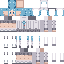
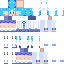
Refresh showcase skin with saturated blue hair and bright cool-white palette (#4)
* Vibrant sky-blue hair, pure white uniform, cool lavender shadows and deliberate skirt pleats

* Test vivid sample hair, bright white cloth and crimson accent in both arm models

* Regenerate real 64x64 showcase PNG from vibrant palette and detailed UV sample

diff --git a/src/sampleSkin.ts b/src/sampleSkin.ts
@@ -1,22 +1,27 @@
 import type {Region} from './skin';
 
-// Original hand-painted blue-haired explorer, inspired by the user's quality reference.
-// The goggles, fringe, coat, cuffs and boots use Minecraft's real outer UV layer.
+// Vibrant blue-haired showcase character, hand-painted on the actual 64×64 Minecraft UV atlas.
+// The crisp white headband, hair wisps, jacket seams, cuffs and boots use the real outer UV layer.
 const palette:Record<string,string>={
-  // Cool, desaturated ice-blue hair; a silver hood; coherent warm skin.
-  H:'#77b2cf',h:'#357ea9',j:'#c2e0ed',K:'#2a6289',
-  a:'#efcebf',b:'#ffe2d2',d:'#c59f93',p:'#e7b0ae',m:'#a1787c',
-  E:'#263f5b',e:'#4083bc',w:'#a1d2e6',W:'#edf4f4',
-  S:'#e5e1e8',s:'#bcb7c3',D:'#8d8998',F:'#666675',
-  L:'#91b7cd',l:'#d4e7ee',R:'#568eae',r:'#a7d5e2',T:'#8ca2b4',G:'#c94e52',
-  Q:'#918d99',q:'#696774',P:'#e5dce2',O:'#aab0bb',o:'#e6e5e8',X:'#60616c'
+  // Clear sky-blue hair with saturated cobalt shadows and luminous icy highlights.
+  H:'#45C7FA',h:'#168EDC',j:'#B7F0FF',K:'#176DB7',
+  // Warm peach skin; soft, lively blush keeps the face from turning grey.
+  a:'#F8D5C5',b:'#FFE9DC',d:'#D9A69B',p:'#FFA5B8',m:'#B5768D',
+  // Deep sapphire eyes with bright cyan reflections.
+  E:'#214477',e:'#2195DC',w:'#B8F4FF',W:'#FFFFFF',
+  // Brilliant cool white cloth, lilac-blue shadows rather than grey.
+  S:'#F9FCFF',s:'#D4DDFA',D:'#96A8DF',F:'#4F66A8',
+  // Sparkling cyan piping, azure ribbon, blue-white highlight, vivid red brooch.
+  L:'#69D9FF',l:'#D6FAFF',R:'#2489E3',r:'#94E8FF',T:'#78ABD9',G:'#FF3F60',
+  // Indigo-lavender skirt pleats and white boots with saturated blue shadows.
+  Q:'#7C86BD',q:'#4B5794',P:'#F5F9FF',O:'#9BB5EC',o:'#E4F1FF',X:'#596C9F'
 };
 const rgba=Object.fromEntries(Object.entries(palette).map(([symbol,hex])=>[symbol,[...hex.match(/\w\w/g)!.map(n=>parseInt(n,16)),255]])) as Record<string,number[]>;
 type FaceMap=Partial<Record<Region['face'],string[]>>;
 const head:FaceMap={
   front:[
-    'HhHHHHhH','HjHHjHjH','HHHbbHHH','HbaaaabH',
-    'HWEaaEWH','HweaaewH','HpbaabpH','HaaamaaH'
+    'HjHHHHjH','HjHHjHjH','HHHbbHHH','HbaaaabH',
+    'HWEaaEWH','HweaaewH','HpbaabpH','HaabmaaH'
   ],
   back:[
     'HHHHHHHH','HjHHhHjH','HHHHHHHH','HhHHHHhH',
@@ -50,7 +55,7 @@ const headOuter:FaceMap={
     'H......H','H......H','H......H','HH....HH'
   ],
   right:[
-    'FFFFFFFF','F......F','F......F','H......H',
+    'sSSSSSSs','SS....SS','S......S','H......H',
     'H......H','H......H','H......H','HH....HH'
   ],
   top:[
@@ -60,14 +65,14 @@ const headOuter:FaceMap={
 };
 const body:FaceMap={
   front:[
-    'SSSssSSS','SsSRRSsS','SsRrrRsS','SsSRRSsS',
-    'SsSTTSsS','SsSTGSsS','SsSTTSsS','SsSTTSsS',
-    'SsSDDSsS','QQQQQQQQ','QqQqQqQq','qQQqQQQq'
+    'SSSSSSSS','SsSRRSsS','SsRrrRsS','SsSRRSsS',
+    'SsSTTSsS','SsSGGSsS','SsSTTSsS','SsSTTSsS',
+    'SsSDDSsS','QQQQQQQQ','QqQQQqQQ','qQQqqQQq'
   ],
   back:[
-    'SSSssSSS','SsSSSSsS','SsSssSsS','SsSSSSsS',
+    'SSSSSSSS','SsSSSSsS','SsSssSsS','SsSSSSsS',
     'SsSSSSsS','SsSSSSsS','SsSSSSsS','SsSSSSsS',
-    'SsSDDSsS','QQQQQQQQ','QqQqQqQq','qQQqQQQq'
+    'SsSDDSsS','QQQQQQQQ','QqQQQqQQ','qQQqqQQq'
   ],
   left:['SSSS','SsSs','SsSs','SsSs','SsSs','SsSs','SsSs','SsSs','SDDS','QQQQ','QqQq','qQQq'],
   right:['SSSS','sSsS','sSsS','sSsS','sSsS','sSsS','sSsS','sSsS','SDDS','QQQQ','qQqQ','qQQq'],
@@ -88,16 +93,16 @@ const bodyOuter:FaceMap={
   left:['H..H','H..H','H..H','H..H','s..s','s..s','S..S','S..S','S..S','Q..Q','q..q','q..q'],
   right:['H..H','H..H','H..H','H..H','s..s','s..s','S..S','S..S','S..S','Q..Q','q..q','q..q']
 };
-const legFront=['QQQQ','QqQq','qQQq','baab','aaaa','aaaa','daaa','aaaa','PPPP','PssP','OooO','XXXX'];
-const legBack=['QQQQ','qQQq','qQQq','dddd','aaaa','aaaa','daaa','aaaa','PPPP','PssP','OOOO','XXXX'];
-const legSide=['QQQQ','qQQq','qQQq','daaa','aaaa','aaaa','daaa','aaaa','PPPP','PssP','OooO','XXXX'];
+const legFront=['QQQQ','QqQQ','qQQq','baab','aaaa','aaaa','daaa','aaaa','PPPP','PssP','OooO','XXXX'];
+const legBack=['QQQQ','QqQQ','qQQq','dddd','aaaa','aaaa','daaa','aaaa','PPPP','PssP','OOOO','XXXX'];
+const legSide=['QQQQ','QqQQ','qQQq','daaa','aaaa','aaaa','daaa','aaaa','PPPP','PssP','OooO','XXXX'];
 const legOuter=['Q..Q','Q..Q','q..q','....','....','....','....','....','O..O','O..O','o..o','XXXX'];
 function armFace(width:number,front:boolean):string[]{
   const white=front?(width===3?'sSS':'sSSs'):(width===3?'SsS':'SssS');
-  const band=width===3?'DSS':'DSsD';
+  const band=width===3?'rSS':'rSSr';
   const cuff=width===3?'FDD':'FDDF';
   const hand=width===3?'daa':'daaa';
-  return [white,band,white,white,band,white,white,white,cuff,cuff,hand,'d'.repeat(width)];
+  return [white,band,white,white,white,white,white,white,cuff,cuff,hand,'d'.repeat(width)];
 }
 function armOuter(width:number):string[]{
   const edge=width===3?'S..':'S..S',cuff='D'.repeat(width);

diff --git a/tests/skin.test.ts b/tests/skin.test.ts
@@ -38,13 +38,23 @@ describe('Java 64×64 UV engine',()=>{
     }
     expect(()=>assertSkinDimensions(64,64)).not.toThrow();expect(()=>assertSkinDimensions(128,128)).toThrow();
   });
+  it('uses the showcase vivid cyan hair, brilliant white outfit and crimson accent',()=>{
+    for(const model of ['default','slim'] as const){
+      const skin=sampleSkin(model);
+      const head=regions(model).find(v=>v.part==='head'&&v.layer==='base'&&v.face==='front')!.rect;
+      const chest=regions(model).find(v=>v.part==='body'&&v.layer==='base'&&v.face==='front')!.rect;
+      expect(rgbaHex(skin,head.x,head.y)).toBe('#45c7fa');
+      expect(rgbaHex(skin,chest.x,chest.y)).toBe('#f9fcff');
+      expect(rgbaHex(skin,chest.x+3,chest.y+5)).toBe('#ff3f60');
+    }
+  });
   it('keeps the example eyes readable beneath the raised goggles in both arm models',()=>{
     for(const model of ['default','slim'] as const){
       const skin=sampleSkin(model);
       const head=regions(model).find(v=>v.part==='head'&&v.layer==='base'&&v.face==='front')!.rect;
       const goggles=regions(model).find(v=>v.part==='head'&&v.layer==='overlay'&&v.face==='front')!.rect;
-      expect(rgbaHex(skin,head.x+2,head.y+4)).toBe('#263f5b');
-      expect(rgbaHex(skin,head.x+5,head.y+4)).toBe('#263f5b');
+      expect(rgbaHex(skin,head.x+2,head.y+4)).toBe('#214477');
+      expect(rgbaHex(skin,head.x+5,head.y+4)).toBe('#214477');
       expect(skin[pixelIndex(goggles.x+2,goggles.y+4)+3]).toBe(0);
       expect(skin[pixelIndex(goggles.x+1,goggles.y)+3]).toBe(255);
     }
